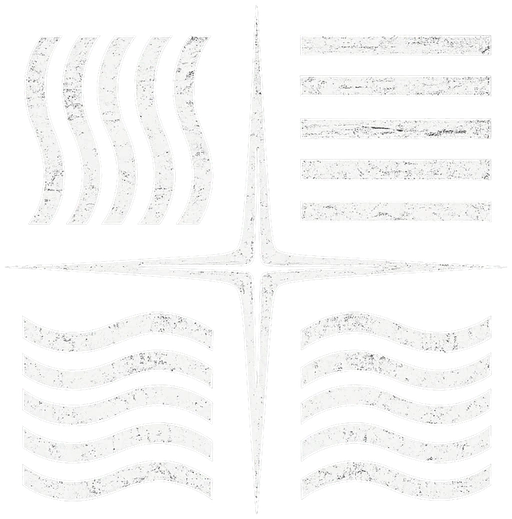
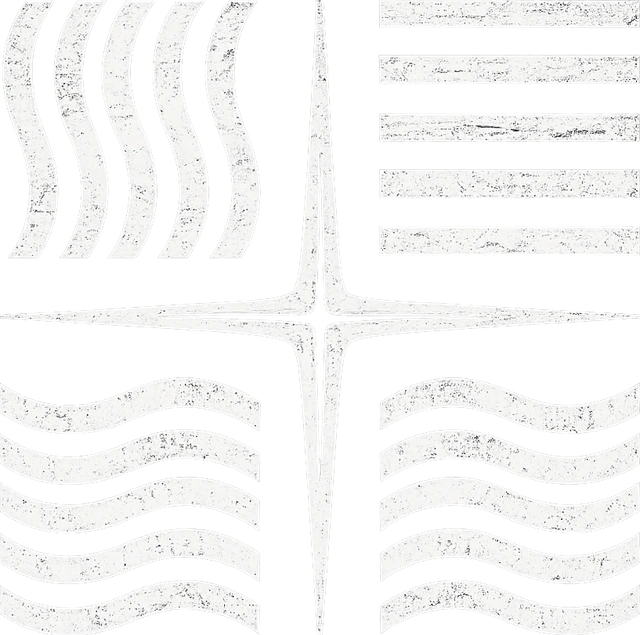
Flush crest and wordmark to the same visible left and right edges

diff --git a/components/brand-logo.tsx b/components/brand-logo.tsx
@@ -55,7 +55,7 @@ export function BrandLogo({
         className
       )}
     >
-      <span className="relative w-full min-w-0 aspect-[512/519]">
+      <span className="relative w-full min-w-0 aspect-[640/635]">
         <Image
           src="/brand/crest.webp"
           alt=""
@@ -65,20 +65,15 @@ export function BrandLogo({
           priority={priority}
         />
       </span>
-      <span className="flex w-full min-w-0 justify-center">
-        <span
-          className="relative min-w-0 aspect-[949/96]"
-          style={{ width: "86%" }}
-        >
-          <Image
-            src="/brand/wordmark.webp"
-            alt=""
-            fill
-            sizes={s.wordmarkSizes}
-            className="object-contain object-center pointer-events-none"
-            priority={priority}
-          />
-        </span>
+      <span className="relative w-full min-w-0 aspect-[946/92]">
+        <Image
+          src="/brand/wordmark.webp"
+          alt=""
+          fill
+          sizes={s.wordmarkSizes}
+          className="object-contain object-center pointer-events-none"
+          priority={priority}
+        />
       </span>
     </span>
   );
